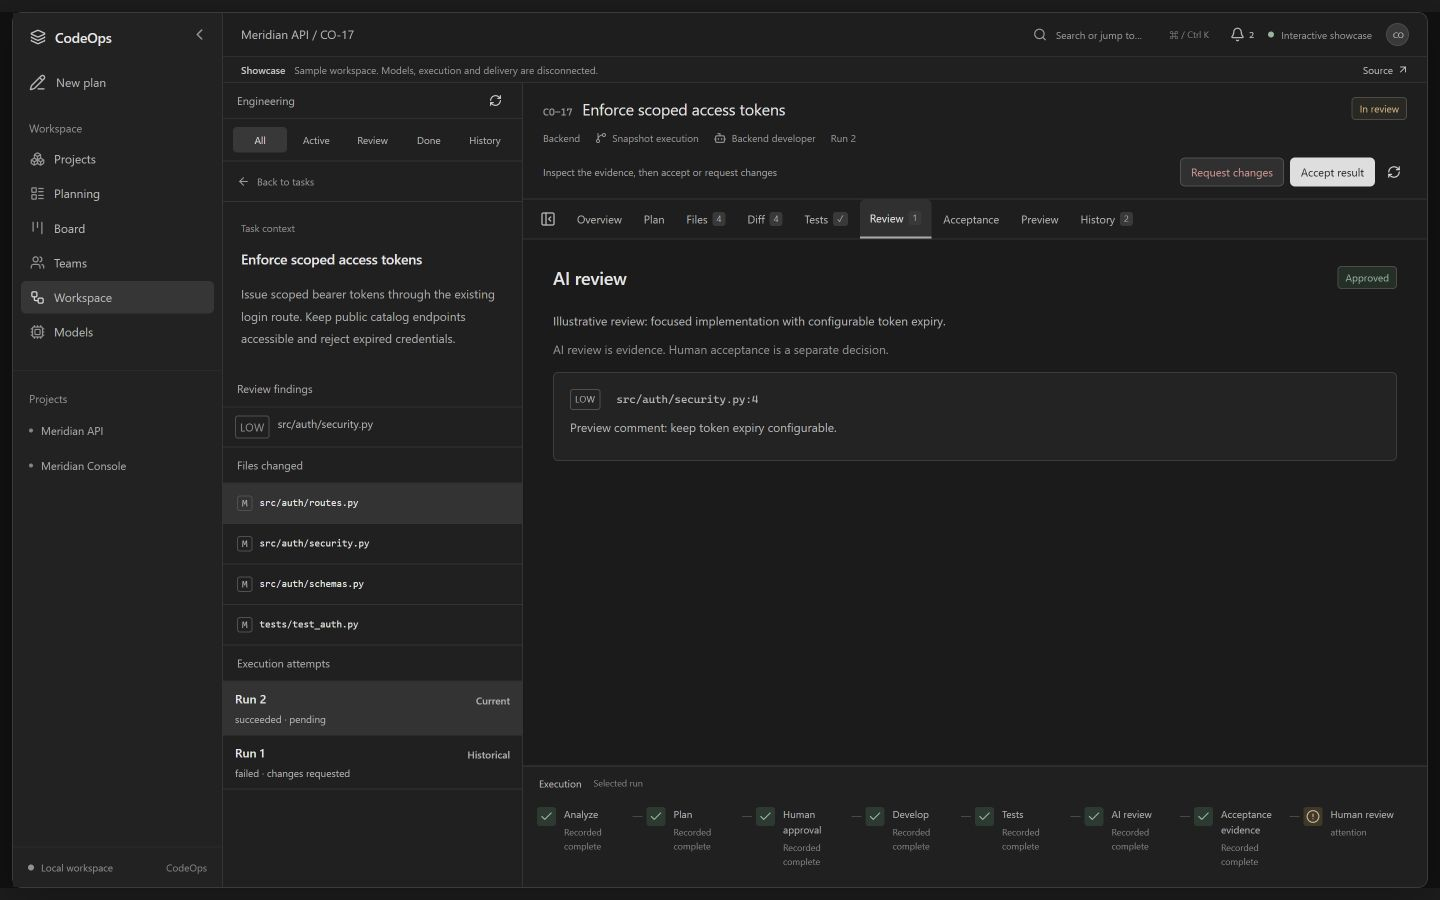
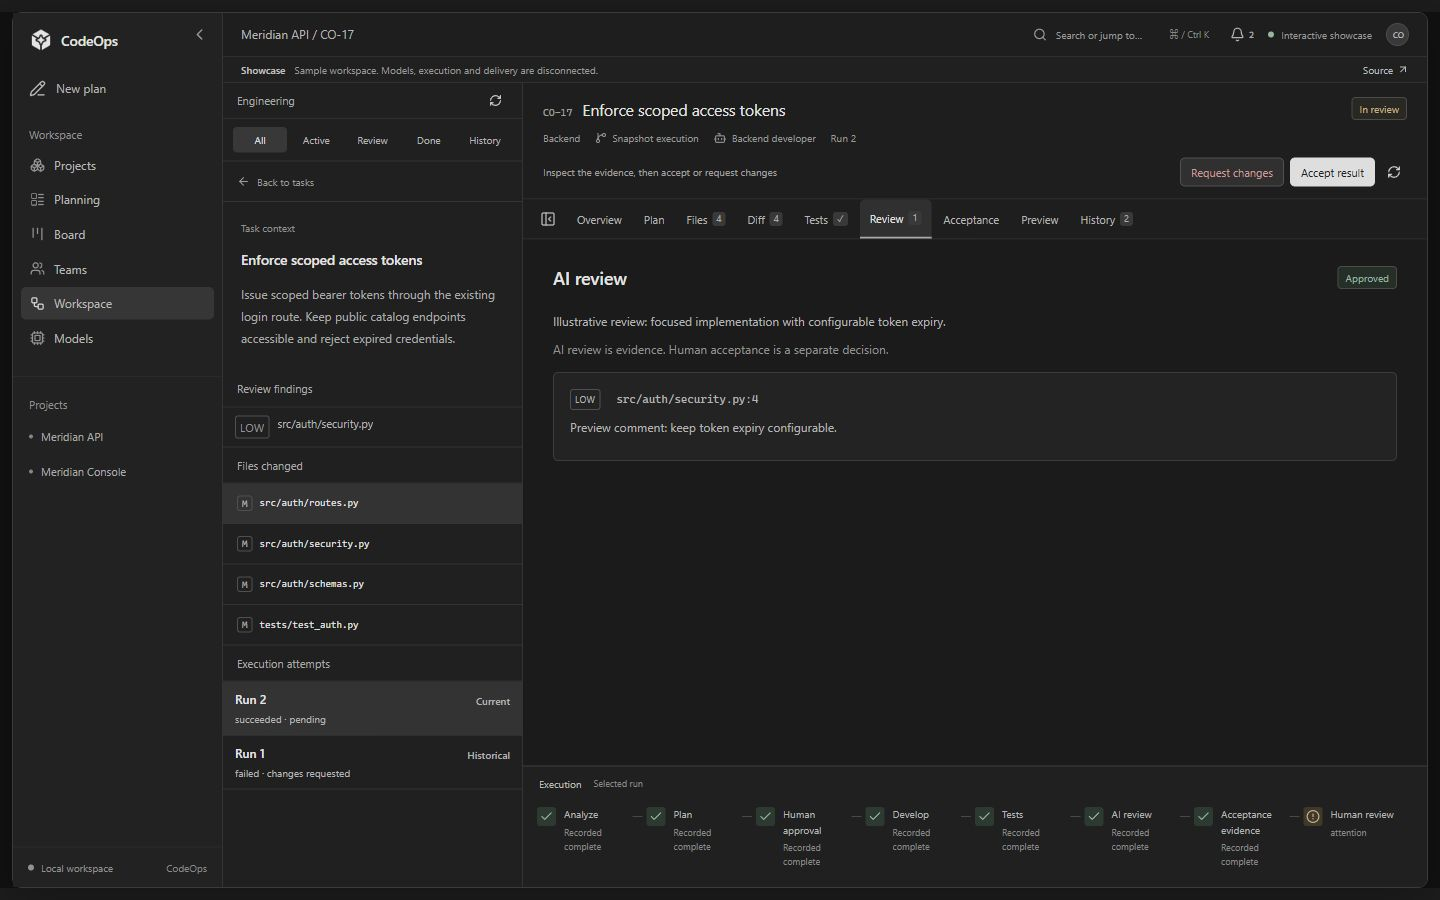
Document every CodeOps section with current interface screenshots

diff --git a/README.md b/README.md
@@ -4,102 +4,236 @@ CodeOps turns product goals into engineering tasks and isolated AI coding runs,
 with human approval, inspectable evidence and explicit delivery.
 
 [Live interactive showcase](https://codeops-showcase.tahabd.workers.dev) ·
-[Run the showcase locally](docs/showcase.md) ·
-[Architecture](docs/architecture.md) · [User guide](docs/user-guide.md)
+[User guide](docs/user-guide.md) · [Quick start](#quick-start-windows) ·
+[Architecture](docs/architecture.md)
 
-React/TypeScript → FastAPI → SQLAlchemy → durable LangGraph workers → model gateway
-→ isolated source → tests/review → human decision. SQLite is the default;
-PostgreSQL, Docker runners and Docker previews are supported.
+![CodeOps dark workspace with the current logo, split diff and recorded execution stages](docs/screenshots/engineering-diff.jpg)
 
-![CodeOps engineering workspace showing a retained split diff](docs/screenshots/engineering-diff.jpg)
+**Explore the interface:** [New plan](#new-plan) · [Projects](#projects) ·
+[Planning](#planning) · [Board](#board) · [Teams](#teams) ·
+[Workspace](#workspace) · [Models](#models)
 
-*Actual interface capture with explicitly illustrative showcase data. The public
-showcase runs the same frontend without model calls, backend access or delivery.*
+All images below are actual captures of the current application with labeled
+sample records. The public showcase lets you explore the frontend and selected
+sample edits; it does not call models, run containers, connect repositories or
+deliver code. Models is read-only there. The full local application provides those
+capabilities with its API, workers and configured providers.
 
-**New to CodeOps?** Start with the [complete beginner's user guide](docs/user-guide.md)
-for startup instructions, a first-task walkthrough, every navigation section,
-button and Engineering tab, and troubleshooting.
-
-## Why CodeOps
-
-Keep management decisions, implementation and human verification in one traceable
-workspace. Generated plans are proposals: people edit and approve them before work
-becomes actionable. Every coding run retains its plan, diff, tests, review,
-evidence, human decision and explicit delivery artifact.
-
-## Core workflow
+## From a goal to reviewed code
 
 ```text
-Product goal → Repository-grounded draft → Human plan approval
-→ Board / Teams → Human + AI ownership → Run with CodeOps
-→ Repository analysis → Coding plan → Human coding approval
-→ Developer → Tests → Reviewer / bounded repair → Acceptance evidence
-→ Optional preview → Human accept or Request Changes → Explicit Git / draft PR
+Project → Product goal → Editable draft → Human product-plan approval
+→ Board / Teams → Assignment → Explicit execution
+→ Repository analysis → Coding plan → Human coding-plan approval
+→ Development → Tests / bounded repair → AI review → Acceptance evidence
+→ Optional preview → Human accept or Request Changes → Explicit delivery
 ```
 
-Drafts use T refs. Only approval creates permanent CO keys and actionable tasks.
-Older approved work remains visible while another draft is generated. Estimates
-are rough effort, not guaranteed delivery time.
+Product-plan approval, coding-plan approval and human acceptance are separate
+decisions. Assignment does not start an execution, and accepting a result does
+not deliver it. Estimates describe rough effort, not guaranteed delivery time.
 
-## Architecture and features
+## Visual tour
 
-React/TypeScript provides Planning, Board, Teams and a task-centered Engineering
-workspace. FastAPI/Pydantic validates boundaries; SQLAlchemy persists SQLite or
-PostgreSQL state; independent LangGraph workers perform analysis/coding/tests/
-review. A separate worker owns previews. See [architecture](docs/architecture.md).
+### New plan
 
-* Repository observations, editable drafts, revisions and atomic approval.
-* Shared workspace members, project squads, global human capacity and explainable
-  assignment suggestions; AI queues are separate from runtime concurrency.
-* Overview, Plan, Files, highlighted unified/split Diff, Tests, Review, Acceptance,
-  Preview and History, with actions appropriate to retained lifecycle state.
-* Evidence, Request Changes/new runs, human acceptance and explicit Git delivery.
+**New plan** in the sidebar opens Planning for the selected project. Describe the
+outcome you want, then choose **Plan with CodeOps** to request a product draft.
+The goal stays beside the proposed work so you can compare the request with the
+plan. Submitting another goal creates another saved plan; earlier work is retained.
 
-## Safety and human control
+![New plan opens the goal composer beside the proposed product draft](docs/screenshots/new-plan.jpg)
 
-Product and coding plans require separate human approvals. AI works in isolated
-snapshots; tests/previews use isolated environments. Original source stays
-unchanged until explicitly choosing local apply. Acceptance is human-controlled;
-delivery is separate and explicit. There is no automatic merge or deployment.
-Fallback is observable. Missing evidence never becomes fabricated verification.
-Tests and model review provide evidence, not guarantees of correctness.
+### Projects
 
-## Model providers
+Register an existing local repository, inspect its description, technology stack
+and path, and open its planning context. The right pane provides shortcuts for the
+current project. **Preview configuration** describes how that project's reviewed
+application should start in an isolated preview environment.
 
-**Settings · Models** supports NVIDIA NIM, Ollama, OpenAI-compatible, Anthropic,
-Gemini and custom connections using existing supported protocols. Test/load models
-or enter an exact ID; choose primary and optional fallback; **Apply routing**.
-Keys remain encrypted on the backend; settings apply without worker restart.
-Environment-based `ASE_*` setup stays compatible. The NVIDIA route supports Kimi
-configuration; availability depends on account/provider. Ollama needs no cloud
-key. Use a model capable of structured JSON; small models can fail validation or
-produce weak plans. See [settings](docs/provider-settings.md) and
-[fallback policy](docs/model-gateway.md).
+![Projects lists registered repositories and the current project's context](docs/screenshots/projects.jpg)
 
-## Local preview
+### Planning
 
-Reviewed Python/Node applications can run in one temporary Docker environment
-with loopback URL, health checks, TTL and cleanup. Preview copies filtered reviewed
-source to its own volume, never mounts the host repository and never decides
-acceptance. External-service/multi-container apps are outside v1.
+Review and edit the draft's epics, task descriptions, priorities, effort estimates,
+dependencies and acceptance criteria. The planning basis explains which repository
+observations informed the proposal and where inspection was limited. Save edits,
+then choose **Approve Plan & Create Work Items** when the breakdown is ready.
+Draft `T` references become permanent `CO` task keys only after approval; drafts
+stay out of Board, Teams and Engineering until then.
+
+![Planning exposes editable draft tasks, dependencies and acceptance criteria](docs/screenshots/planning.jpg)
+
+### Board
+
+Track approved work through **Backlog**, **Planned**, **In progress**, **Review**
+and **Done**. Cards show the task key, estimate, priority, technical area, owner
+and dependencies. Filter by project, text, priority, area, assignee or squad, and
+open a card to inspect its requirements and assignment. Tasks linked to an
+execution follow that execution's lifecycle and human acceptance.
+
+![Board groups approved tasks by status with ownership and dependency context](docs/screenshots/board.jpg)
+
+### Teams
+
+Manage shared human and AI members, project memberships and squads. Human capacity
+summarizes planned effort across projects. AI queued ownership and actual reserved
+execution slots are displayed separately, including coding-plan approval waits.
+Assign work yourself or review assignment suggestions before applying them;
+assignment alone does not run agents.
+
+![Teams separates member identity, planned capacity, queued work and reserved execution slots](docs/screenshots/teams.jpg)
+
+### Workspace
+
+**Workspace** opens Engineering. Find a task using the All, Active, Review, Done
+or History filters, then inspect its context and retained runs. Eligible assigned
+work can be explicitly started. The task header presents the actions appropriate
+to the selected state; the bottom strip navigates recorded execution stages.
+**Overview** brings the request, changes, validation and next decision together.
+
+![Engineering Overview collects task context, retained results and the next human decision](docs/screenshots/engineering-overview.jpg)
+
+<details>
+<summary><strong>Explore all nine Engineering tabs</strong></summary>
+
+#### Overview
+
+Read the task description, readiness or blockers, and summaries of changes, tests,
+AI review and acceptance evidence. Before execution, inspect assignment and
+dependency readiness. After execution, use the summaries to open retained artifacts.
+
+![Overview shows the selected task and summaries of its retained evidence](docs/screenshots/engineering-overview.jpg)
+
+#### Plan
+
+Inspect the proposed implementation steps, affected files, planned validation,
+risks and limitations. A waiting run requires a separate human coding-plan approval.
+Choose the test runner, framework and bounded attempt limit before authorizing
+continuation. Plan steps describe intended work, not verified completion.
+
+![Plan presents file-level implementation steps and the human approval gate](docs/screenshots/engineering-plan.jpg)
+
+#### Files
+
+Read the selected run's retained snapshot source with syntax highlighting and line
+numbers. Select a changed file in the context pane or switch to its diff. This
+view inspects saved source; it does not edit the original repository.
+
+![Files displays read-only retained source with syntax highlighting](docs/screenshots/engineering-files.jpg)
+
+#### Diff
+
+Compare added and removed lines using unified or split views. The changed-file
+navigator, line numbers, hunk headers and change counts keep review focused.
+Copy a path or download the retained diff for closer inspection.
+
+![Diff compares the retained before and after source in split view](docs/screenshots/engineering-diff.jpg)
+
+#### Tests
+
+Inspect the retained runner, command, duration, outcome, counts when reported,
+and output logs. Failures remain evidence for inspection and repair. The report
+shown here is explicitly illustrative showcase data, not a test executed by the
+public site.
+
+![Tests shows a sample command, outcome, duration and expanded retained output](docs/screenshots/engineering-tests.jpg)
+
+#### Review
+
+Read the AI review summary and findings, including severity, source references,
+evidence and recommended fixes when supplied. Open referenced source or diffs to
+check the finding yourself. AI approval supplies evidence; it does not replace
+human acceptance.
+
+![Review displays the AI decision and a source-linked finding](docs/screenshots/engineering-review.jpg)
+
+#### Acceptance
+
+Compare each requirement with its retained evidence. CodeOps distinguishes
+**verified**, **supported**, **unverified** and conflicting evidence, and links
+back to source artifacts. An implementation association alone does not become a
+passing test. Unresolved criteria require explicit acknowledgment before acceptance.
+
+![Acceptance distinguishes passing-test verification from implementation support and missing evidence](docs/screenshots/acceptance.jpg)
+
+#### Preview
+
+Inspect a temporary environment for human verification of an eligible successful
+implementation. In the local runtime, preview uses isolated reviewed source,
+health checks, a loopback URL, a lifetime limit and cleanup. Opening a preview does
+not verify criteria or accept the task. The public showcase cannot start Docker;
+its screen demonstrates the controls and retained preview information.
+
+![Preview explains the isolated verification environment and showcase restrictions](docs/screenshots/engineering-preview.jpg)
+
+#### History
+
+Inspect prior runs, operation timelines, repair attempts, failures and retained
+feedback. Historical inspection remains read-only and uses the selected run's own
+artifacts and decisions. Return to the current run to perform its available actions.
+
+![History shows a prior failed run with an explicit inspection-only banner](docs/screenshots/engineering-history.jpg)
+
+</details>
+
+#### Human review and delivery
+
+Use **Request changes** to record feedback and create a fresh run through the
+existing workflow, or **Accept result** after reviewing the evidence. Acceptance
+marks the EngineeringTask Done and stops any active preview for that run. Export,
+local application and draft GitHub PR publication remain separate explicit actions;
+GitHub delivery also requires the appropriate repository configuration and credentials.
+
+![Human acceptance requires acknowledgment of unresolved evidence and explains that delivery is separate](docs/screenshots/human-review.jpg)
+
+### Models
+
+Connect NVIDIA NIM, Ollama, OpenAI-compatible, Anthropic, Gemini or a custom service
+using a supported protocol. In the local app, add a provider, load or enter a model
+ID, test it, and apply primary and optional fallback routing. Saved API keys stay
+encrypted on the backend. Environment-based `ASE_*` configuration remains supported.
+
+**Models is read-only in the public showcase:** provider edits, API-key storage, connection
+tests and routing changes are disabled. A visible notice explains how to use these
+controls in the local application. See [provider settings](docs/provider-settings.md)
+and [fallback policy](docs/model-gateway.md) for configuration details.
+
+![Models explains its read-only showcase state above provider connections and routing](docs/screenshots/models.jpg)
+
+<details>
+<summary>See primary and fallback model routing</summary>
+
+Primary and fallback selections are separate. Fallback is used only for eligible
+connection, timeout, rate-limit and availability failures; invalid results and
+rejected reviews do not switch providers.
+
+![Model routing shows separate primary and fallback providers and model IDs](docs/screenshots/models-routing.jpg)
+
+</details>
+
+For a button-by-button walkthrough, use the [complete user guide](docs/user-guide.md).
+The interface also includes Ctrl/Cmd+K command search, retained execution events,
+keyboard-accessible tabs and dialogs, and reduced-motion support. See the
+[design system](docs/design-system.md) and [capture notes](docs/screenshots/README.md).
+
+## Architecture and human control
+
+React/TypeScript → FastAPI/Pydantic → SQLAlchemy → durable LangGraph workers
+→ model gateway → isolated source → tests/review → human decision.
+SQLite is the default; PostgreSQL is optional. Independent workers perform
+analysis, coding, testing and review; a separate worker owns previews.
+See [architecture](docs/architecture.md) and the [runbook](docs/platform.md).
+
+Agents edit an isolated snapshot. Original source changes only through an explicit
+local-apply action. Delivery is separate from acceptance, and CodeOps does not
+automatically merge or deploy your application. Missing evidence stays visible;
+tests and model review are evidence, not guarantees of correctness.
+
+Preview supports one Python/Node service in Docker, with filtered source copied
+to its own volume. It does not mount the host repository or decide acceptance.
+External-service and multi-container applications are outside v1.
 See [preview profiles and images](docs/local-previews.md).
-
-## Interface
-
-![Compact engineering Board](docs/screenshots/board.jpg)
-
-Explore [Planning](docs/screenshots/planning.jpg),
-[plan approval](docs/screenshots/engineering-plan.jpg),
-[test reports](docs/screenshots/engineering-tests.jpg),
-[AI review](docs/screenshots/engineering-review.jpg),
-[acceptance evidence](docs/screenshots/acceptance.jpg),
-[Teams](docs/screenshots/teams.jpg) and [Models](docs/screenshots/models.jpg).
-These are actual captures of the redesigned application using labeled sample
-records, not real model execution results. See [capture details](docs/screenshots/README.md).
-
-The interface includes Ctrl/Cmd+K command search, a retained execution event stack,
-keyboard-accessible tabs/dialogs, and reduced-motion support.
-See the [design system](docs/design-system.md).
 
 ## Quick start (Windows)
 

diff --git a/docs/screenshots/README.md b/docs/screenshots/README.md
@@ -1,7 +1,8 @@
 # Interface captures
 
 These captures show the reference-led charcoal workbench revision from November 1,
-2026, including the compact brand, split Planning desk and Engineering stage strip.
+2026, refreshed for the README after the supplied-logo and Models-notice updates.
+They include the compact brand, split Planning desk and Engineering stage strip.
 
 These JPEGs are actual browser captures of CodeOps, using the deterministic public
 showcase adapter. The visible Showcase banner identifies illustrative records.
@@ -9,23 +10,31 @@ No screenshot claims that a model, test runner or Docker environment ran here.
 
 | Capture | Surface |
 | --- | --- |
+| [New plan](new-plan.jpg) | Goal composer opened by the sidebar shortcut |
 | [Projects](projects.jpg) | Repository identity, stack and preview configuration |
-| [Planning](planning.jpg) | Goal composer and repository-grounding presentation |
+| [Planning](planning.jpg) | Draft fields, dependencies and acceptance criteria |
 | [Board](board.jpg) | Approved tasks, status, ownership and dependencies |
 | [Teams](teams.jpg) | Workspace identities, queues and runtime reservations |
+| [Overview](engineering-overview.jpg) | Task context, next decision and retained result summaries |
 | [Plan approval](engineering-plan.jpg) | Separate human coding-plan gate |
+| [Files](engineering-files.jpg) | Read-only retained snapshot source |
 | [Diff](engineering-diff.jpg) | Highlighted split diff and retained line numbers |
 | [Tests](engineering-tests.jpg) | Sample command, duration and bounded test output |
 | [Review](engineering-review.jpg) | Findings with AI/human decision distinction |
 | [Acceptance](acceptance.jpg) | Verified, supported and unverified evidence |
+| [Preview](engineering-preview.jpg) | Verification boundary and retained preview information |
 | [History](engineering-history.jpg) | Read-only historical inspection |
+| [Human review](human-review.jpg) | Acceptance acknowledgment, captured without submitting |
 | [Models](models.jpg) | Visible primary/fallback route; no credentials |
+| [Model routing](models-routing.jpg) | Separate primary/fallback model selections |
+| [Models notice](models-notice.jpg) | Cropped explanation of disabled showcase controls |
 | [Live showcase](showcase-live.jpg) | Verified public Cloudflare deployment |
 | [Supplied logo](logo-brand.jpg) | Subsequent logo update, cropped to sidebar branding |
 
-Captured during the November 1, 2026 reference-led presentation pass at 1440×900.
-Additional responsive checks cover phone and desktop breakpoints. Capture dimensions are preserved in
-each image; no concept art or composited product state is used.
+The full-screen README captures were refreshed from the public showcase at
+1440×900 on November 1, 2026. The separately labeled logo and notice images are
+cropped detail captures. Capture dimensions are preserved; no concept art or
+composited product state is used.
 
 To refresh captures, run `pnpm dev:showcase` in `frontend`, navigate the real
 application, wait for data and active-tab state to settle, and capture the viewport.
